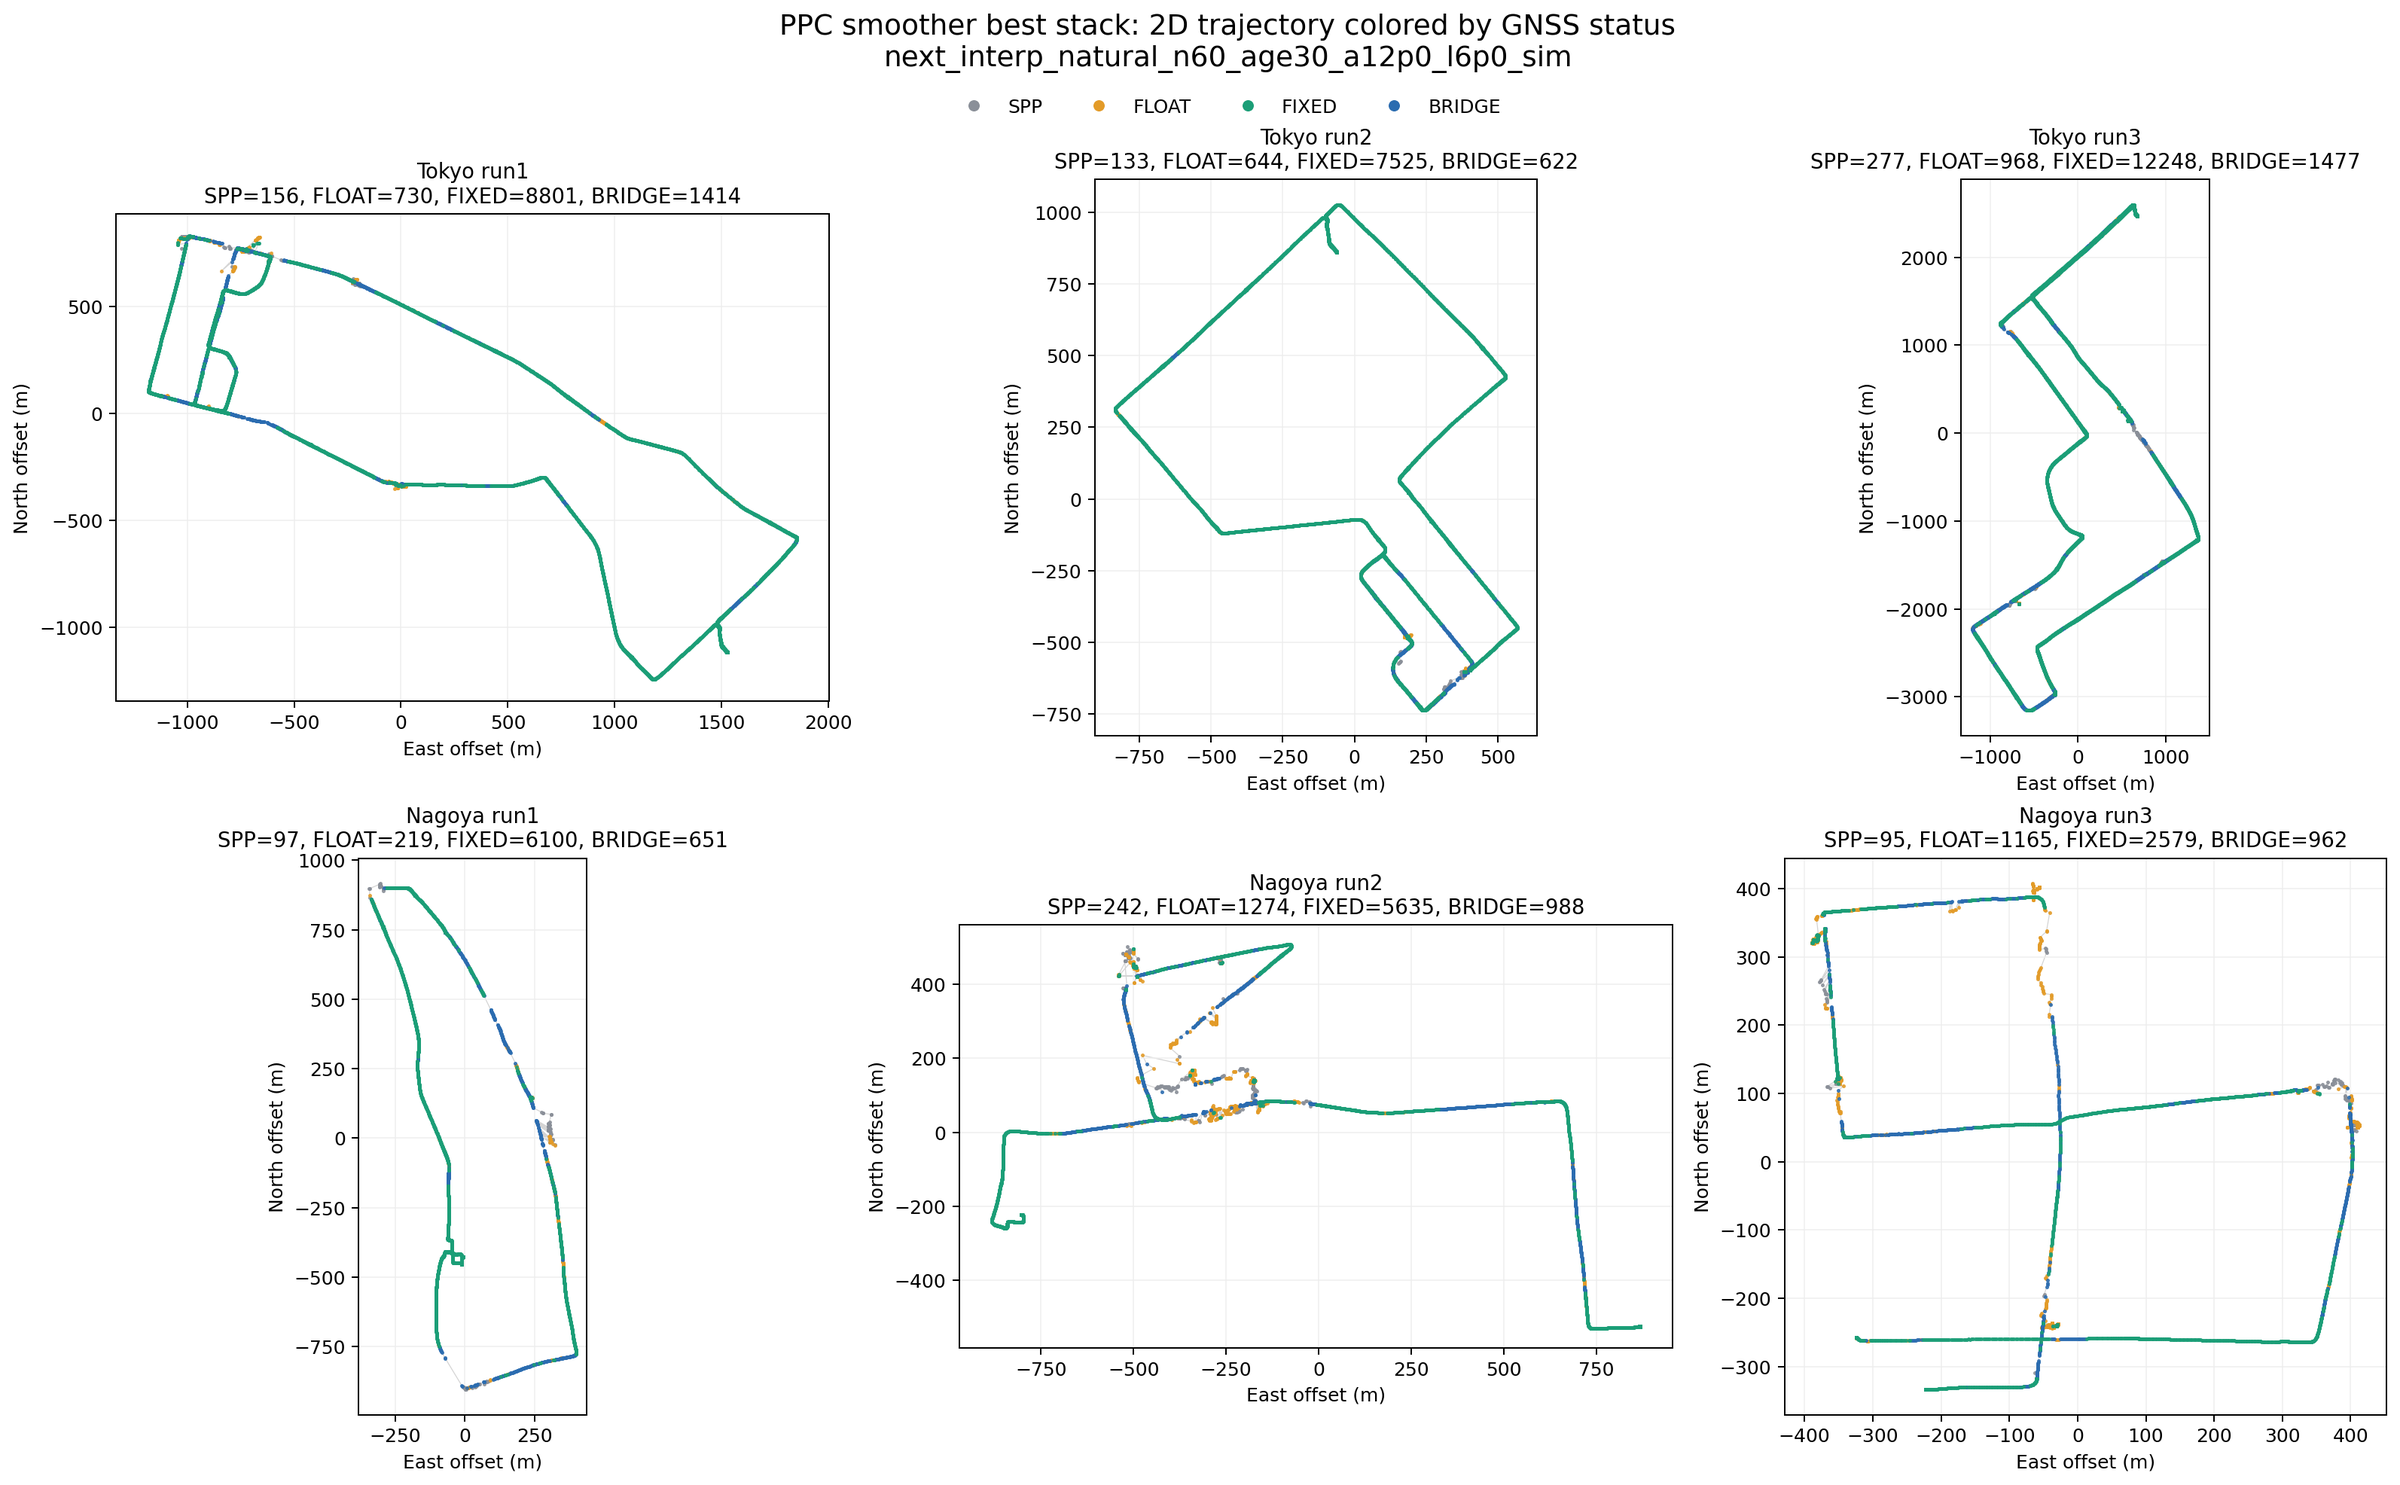
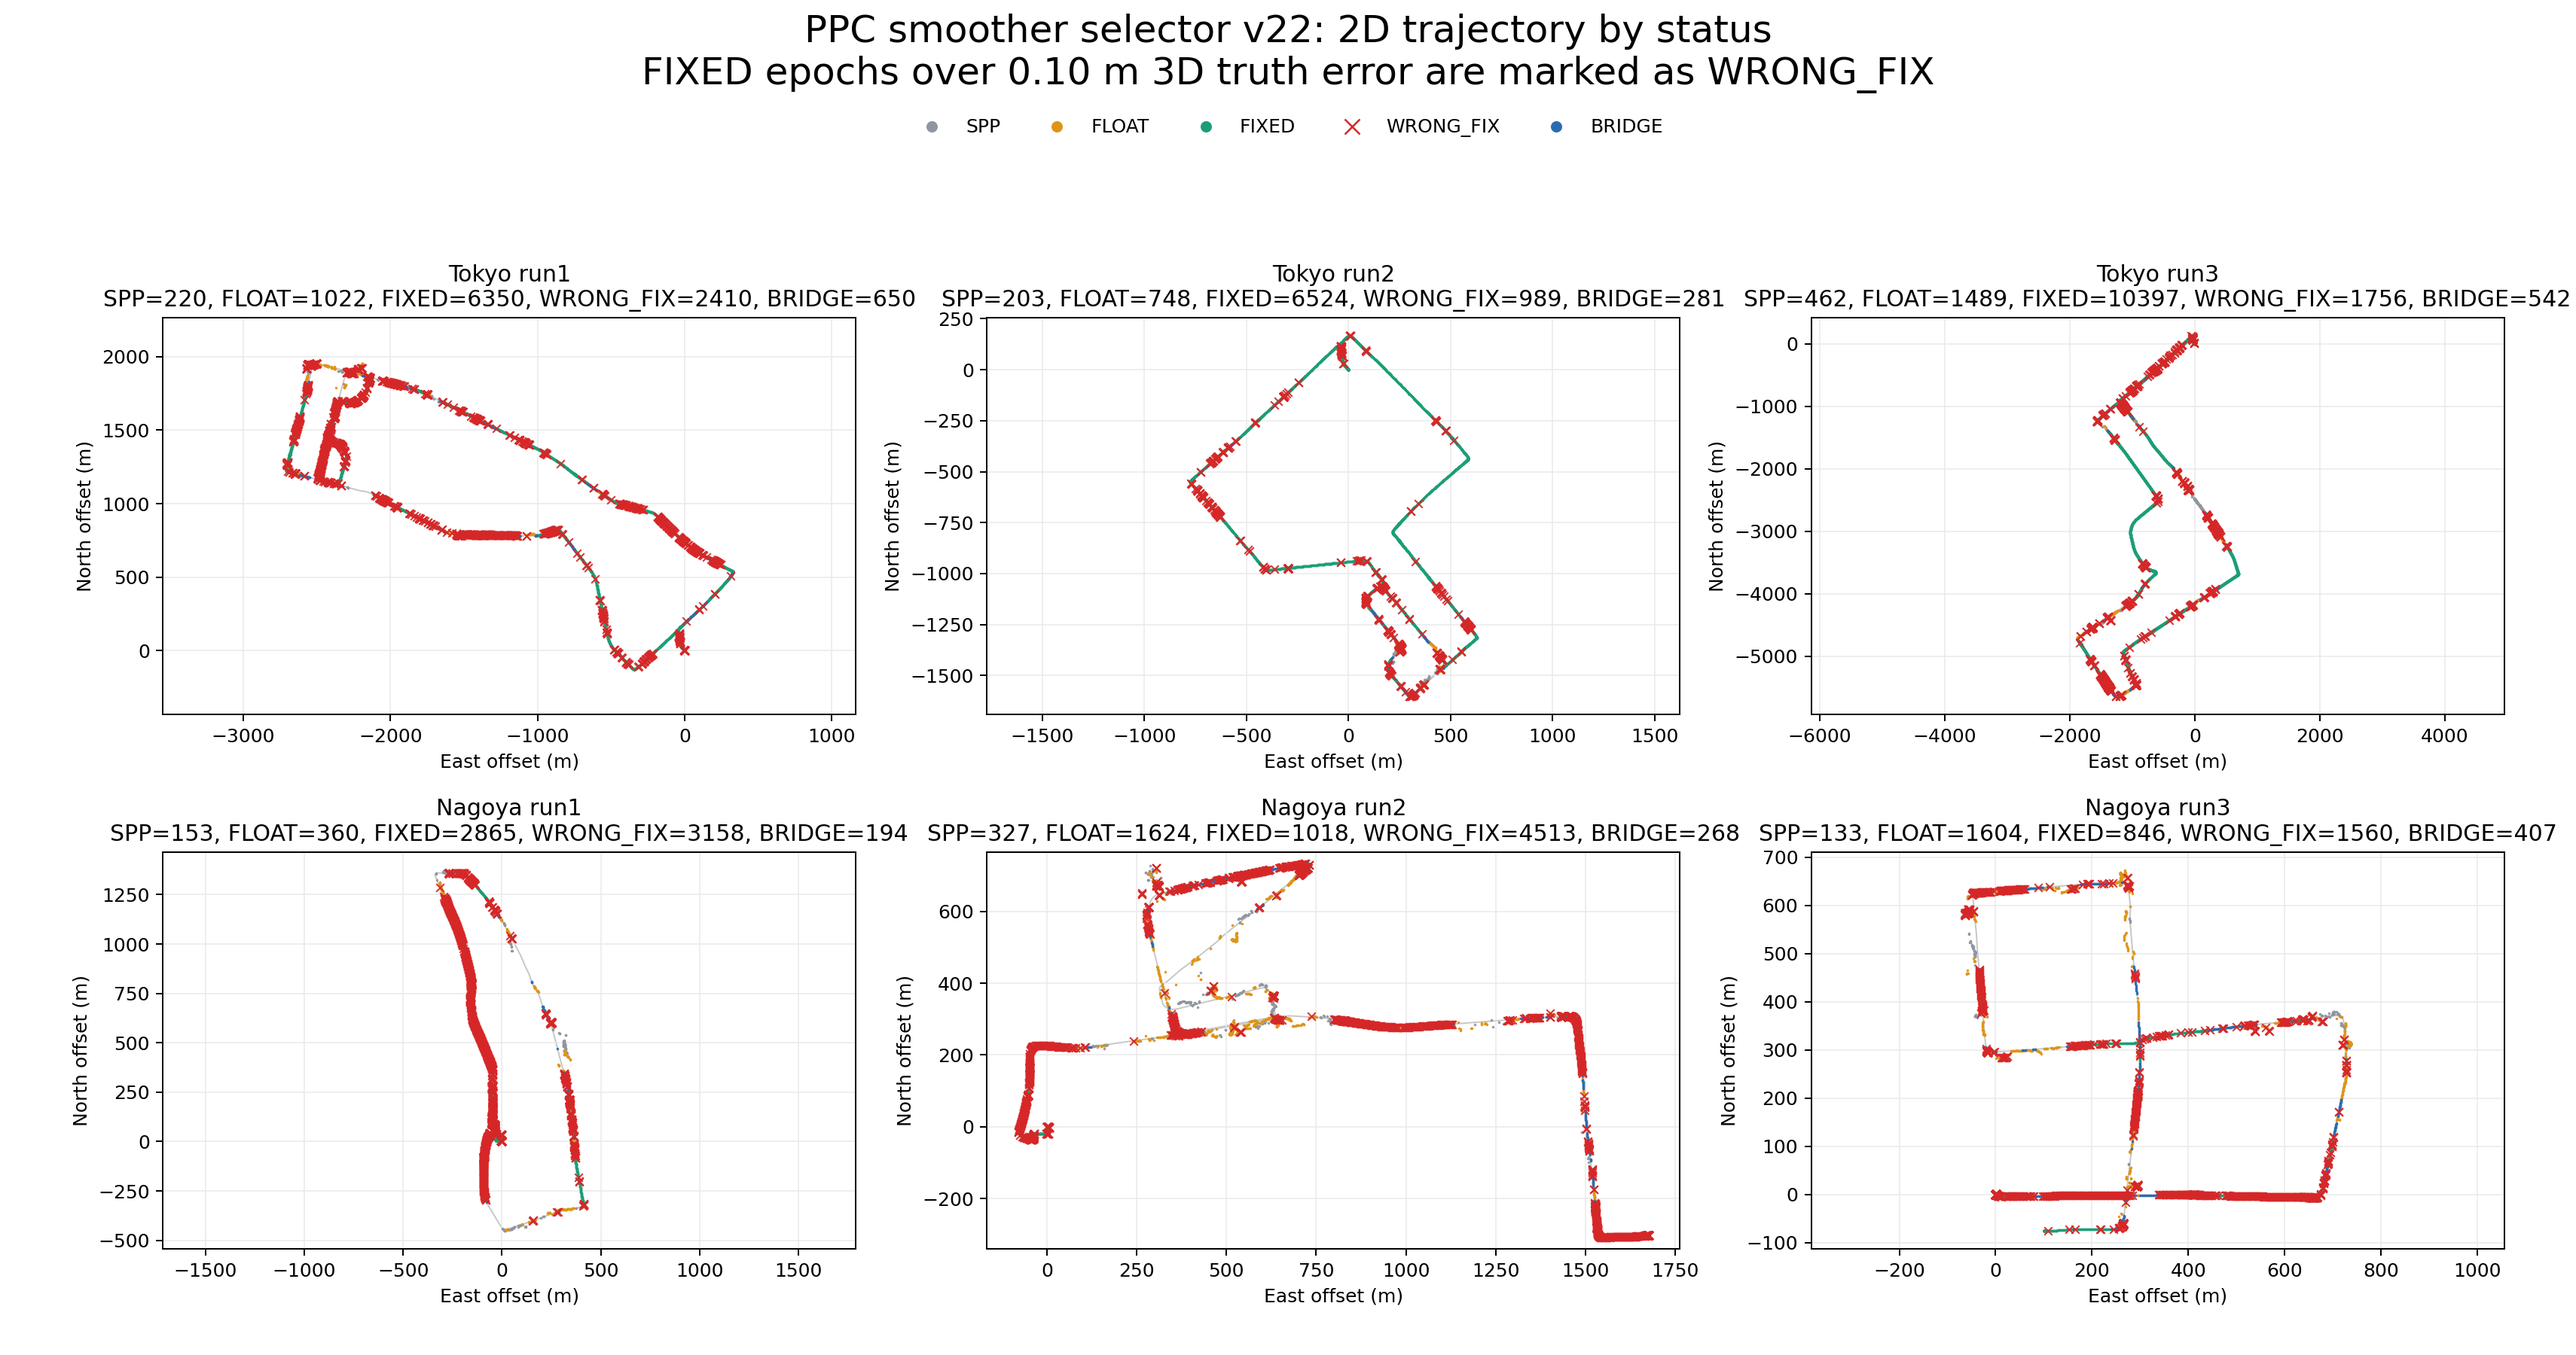
Add PPC wrong-fix trajectory plots

diff --git a/scripts/plot_ppc_status_trajectories.py b/scripts/plot_ppc_status_trajectories.py
@@ -1,0 +1,292 @@
+#!/usr/bin/env python3
+"""Plot PPC 2D trajectories by GNSS status with optional wrong-FIX marking."""
+
+from __future__ import annotations
+
+import argparse
+import csv
+from collections import Counter
+from dataclasses import dataclass
+import math
+from pathlib import Path
+from typing import Iterable
+
+import matplotlib
+
+matplotlib.use("Agg")
+import matplotlib.pyplot as plt  # noqa: E402
+
+
+RUNS: tuple[tuple[str, str, str], ...] = (
+    ("tokyo_run1", "Tokyo run1", "tokyo/run1"),
+    ("tokyo_run2", "Tokyo run2", "tokyo/run2"),
+    ("tokyo_run3", "Tokyo run3", "tokyo/run3"),
+    ("nagoya_run1", "Nagoya run1", "nagoya/run1"),
+    ("nagoya_run2", "Nagoya run2", "nagoya/run2"),
+    ("nagoya_run3", "Nagoya run3", "nagoya/run3"),
+)
+STATUS_NAMES = {
+    1: "SPP",
+    3: "FLOAT",
+    4: "FIXED",
+    5: "BRIDGE",
+}
+PLOT_ORDER = ("SPP", "FLOAT", "FIXED", "WRONG_FIX", "BRIDGE")
+COLORS = {
+    "SPP": "#8f969f",
+    "FLOAT": "#df9418",
+    "FIXED": "#1b9e77",
+    "WRONG_FIX": "#d62728",
+    "BRIDGE": "#2b6cb0",
+}
+
+
+@dataclass(frozen=True)
+class Position:
+    week: int
+    tow_s: float
+    ecef: tuple[float, float, float]
+    status: int
+
+
+def parse_args() -> argparse.Namespace:
+    parser = argparse.ArgumentParser()
+    parser.add_argument("--dataset-root", type=Path, required=True)
+    parser.add_argument("--solution-dir", type=Path, required=True)
+    parser.add_argument("--output", type=Path, required=True)
+    parser.add_argument("--title", required=True)
+    parser.add_argument("--subtitle", default="")
+    parser.add_argument(
+        "--wrong-fix-threshold-m",
+        type=float,
+        default=0.10,
+        help="Classify status=FIXED epochs above this 3D truth error as WRONG_FIX.",
+    )
+    return parser.parse_args()
+
+
+def load_reference(path: Path) -> dict[tuple[int, float], tuple[float, float, float]]:
+    records: dict[tuple[int, float], tuple[float, float, float]] = {}
+    with path.open(newline="", encoding="utf-8") as handle:
+        reader = csv.DictReader(handle)
+        for row in reader:
+            try:
+                week = int(row["GPS Week"])
+                tow_s = round(float(row["GPS TOW (s)"]), 3)
+                records[(week, tow_s)] = (
+                    float(row["ECEF X (m)"]),
+                    float(row["ECEF Y (m)"]),
+                    float(row["ECEF Z (m)"]),
+                )
+            except (KeyError, ValueError):
+                continue
+    return records
+
+
+def load_solution(path: Path) -> list[Position]:
+    records: list[Position] = []
+    with path.open(encoding="utf-8") as handle:
+        for line in handle:
+            if not line.strip() or line.startswith("%"):
+                continue
+            parts = line.split()
+            if len(parts) < 9:
+                continue
+            try:
+                records.append(
+                    Position(
+                        week=int(parts[0]),
+                        tow_s=round(float(parts[1]), 3),
+                        ecef=(float(parts[2]), float(parts[3]), float(parts[4])),
+                        status=int(parts[8]),
+                    )
+                )
+            except ValueError:
+                continue
+    return records
+
+
+def ecef_to_geodetic_rad(ecef: tuple[float, float, float]) -> tuple[float, float, float]:
+    x, y, z = ecef
+    a = 6378137.0
+    e2 = 6.69437999014e-3
+    lon = math.atan2(y, x)
+    p = math.hypot(x, y)
+    lat = math.atan2(z, p * (1.0 - e2))
+    for _ in range(8):
+        sin_lat = math.sin(lat)
+        n = a / math.sqrt(1.0 - e2 * sin_lat * sin_lat)
+        lat = math.atan2(z + e2 * n * sin_lat, p)
+    sin_lat = math.sin(lat)
+    n = a / math.sqrt(1.0 - e2 * sin_lat * sin_lat)
+    height = p / math.cos(lat) - n
+    return lat, lon, height
+
+
+def ecef_to_enu(
+    ecef: tuple[float, float, float],
+    origin_ecef: tuple[float, float, float],
+    origin_lat_rad: float,
+    origin_lon_rad: float,
+) -> tuple[float, float, float]:
+    dx = ecef[0] - origin_ecef[0]
+    dy = ecef[1] - origin_ecef[1]
+    dz = ecef[2] - origin_ecef[2]
+    sin_lat = math.sin(origin_lat_rad)
+    cos_lat = math.cos(origin_lat_rad)
+    sin_lon = math.sin(origin_lon_rad)
+    cos_lon = math.cos(origin_lon_rad)
+    east = -sin_lon * dx + cos_lon * dy
+    north = -sin_lat * cos_lon * dx - sin_lat * sin_lon * dy + cos_lat * dz
+    up = cos_lat * cos_lon * dx + cos_lat * sin_lon * dy + sin_lat * dz
+    return east, north, up
+
+
+def error_3d_m(
+    lhs: tuple[float, float, float],
+    rhs: tuple[float, float, float],
+) -> float:
+    return math.sqrt(
+        (lhs[0] - rhs[0]) ** 2
+        + (lhs[1] - rhs[1]) ** 2
+        + (lhs[2] - rhs[2]) ** 2
+    )
+
+
+def classify(
+    position: Position,
+    reference: dict[tuple[int, float], tuple[float, float, float]],
+    wrong_fix_threshold_m: float,
+) -> str:
+    name = STATUS_NAMES.get(position.status, f"STATUS_{position.status}")
+    if position.status != 4:
+        return name
+    truth = reference.get((position.week, position.tow_s))
+    if truth is None:
+        return name
+    return "WRONG_FIX" if error_3d_m(position.ecef, truth) > wrong_fix_threshold_m else "FIXED"
+
+
+def sorted_labels(counter: Counter[str]) -> list[str]:
+    labels = [label for label in PLOT_ORDER if counter.get(label, 0)]
+    labels.extend(sorted(label for label in counter if label not in PLOT_ORDER))
+    return labels
+
+
+def label_counts_text(counter: Counter[str]) -> str:
+    return ", ".join(f"{label}={counter[label]}" for label in sorted_labels(counter))
+
+
+def scatter_label(ax: plt.Axes, points: list[tuple[float, float]], label: str) -> None:
+    if not points:
+        return
+    xs = [point[0] for point in points]
+    ys = [point[1] for point in points]
+    marker = "x" if label == "WRONG_FIX" else "."
+    size = 18 if label == "WRONG_FIX" else 8
+    ax.scatter(
+        xs,
+        ys,
+        s=size,
+        marker=marker,
+        c=COLORS.get(label, "#444444"),
+        linewidths=0.8 if label == "WRONG_FIX" else 0.0,
+        label=label,
+        alpha=0.95,
+        zorder=4 if label == "WRONG_FIX" else 3,
+    )
+
+
+def plot_run(
+    ax: plt.Axes,
+    dataset_root: Path,
+    solution_dir: Path,
+    run_key: str,
+    run_title: str,
+    run_relpath: str,
+    wrong_fix_threshold_m: float,
+) -> Counter[str]:
+    reference = load_reference(dataset_root / run_relpath / "reference.csv")
+    solution = load_solution(solution_dir / f"{run_key}.pos")
+    if not reference or not solution:
+        ax.set_title(f"{run_title}\nmissing data", fontsize=12)
+        ax.axis("off")
+        return Counter()
+    origin_ecef = next(iter(reference.values()))
+    origin_lat, origin_lon, _ = ecef_to_geodetic_rad(origin_ecef)
+    by_label: dict[str, list[tuple[float, float]]] = {}
+    counts: Counter[str] = Counter()
+    for position in solution:
+        label = classify(position, reference, wrong_fix_threshold_m)
+        east, north, _ = ecef_to_enu(position.ecef, origin_ecef, origin_lat, origin_lon)
+        by_label.setdefault(label, []).append((east, north))
+        counts[label] += 1
+    ax.plot(
+        [ecef_to_enu(ecef, origin_ecef, origin_lat, origin_lon)[0] for ecef in reference.values()],
+        [ecef_to_enu(ecef, origin_ecef, origin_lat, origin_lon)[1] for ecef in reference.values()],
+        color="#c8c8c8",
+        linewidth=0.8,
+        zorder=1,
+    )
+    for label in sorted_labels(counts):
+        scatter_label(ax, by_label.get(label, []), label)
+    ax.set_title(f"{run_title}\n{label_counts_text(counts)}", fontsize=12)
+    ax.set_xlabel("East offset (m)")
+    ax.set_ylabel("North offset (m)")
+    ax.grid(True, color="#e9e9e9", linewidth=0.6)
+    ax.set_aspect("equal", adjustable="datalim")
+    return counts
+
+
+def build_legend(fig: plt.Figure, labels: Iterable[str]) -> None:
+    handles = []
+    for label in labels:
+        marker = "x" if label == "WRONG_FIX" else "."
+        size = 8 if label == "WRONG_FIX" else 10
+        handles.append(
+            plt.Line2D(
+                [0],
+                [0],
+                marker=marker,
+                color="none",
+                markeredgecolor=COLORS.get(label, "#444444"),
+                markerfacecolor=COLORS.get(label, "#444444"),
+                markersize=size,
+                linestyle="None",
+                label=label,
+            )
+        )
+    fig.legend(handles=handles, loc="upper center", ncol=len(handles), frameon=False, bbox_to_anchor=(0.5, 0.925))
+
+
+def main() -> int:
+    args = parse_args()
+    fig, axes = plt.subplots(2, 3, figsize=(19, 10), constrained_layout=False)
+    total_counts: Counter[str] = Counter()
+    for ax, run in zip(axes.flat, RUNS, strict=True):
+        total_counts.update(
+            plot_run(
+                ax,
+                args.dataset_root,
+                args.solution_dir,
+                run[0],
+                run[1],
+                run[2],
+                args.wrong_fix_threshold_m,
+            )
+        )
+    title = args.title
+    if args.subtitle:
+        title = f"{title}\n{args.subtitle}"
+    fig.suptitle(title, fontsize=20, y=0.99)
+    build_legend(fig, sorted_labels(total_counts))
+    fig.tight_layout(rect=(0.02, 0.02, 0.98, 0.90))
+    args.output.parent.mkdir(parents=True, exist_ok=True)
+    fig.savefig(args.output, dpi=180)
+    print(f"wrote {args.output}")
+    print(label_counts_text(total_counts))
+    return 0
+
+
+if __name__ == "__main__":
+    raise SystemExit(main())

diff --git a/docs/ppc_smoother_oracle_report.md b/docs/ppc_smoother_oracle_report.md
@@ -64,10 +64,14 @@ of chasing extra fixed epochs. In practice:
 
 ## Diagnostic Images
 
-The trajectory plots are useful for reviewing where bridges or gaps appear, but
-they are not performance evidence by themselves:
+The trajectory plots are useful for reviewing where bridges, gaps, and mis-fixes
+appear, but they are not performance evidence by themselves. Red `WRONG_FIX`
+points are `FIXED` solution epochs whose post-run 3D reference error exceeds
+0.10 m.
 
-![PPC smoother best-stack 2D trajectory colored by GNSS status](ppc_smoother_status_trajectories.png)
+![PPC filter 2D trajectory colored by GNSS status and wrong FIX](ppc_filter_status_trajectories.png)
+
+![PPC smoother 2D trajectory colored by GNSS status and wrong FIX](ppc_smoother_status_trajectories.png)
 
 ![PPC demo5-cont 2D trajectory colored by GNSS status](ppc_smoother_status_trajectories_demo5.png)
 
